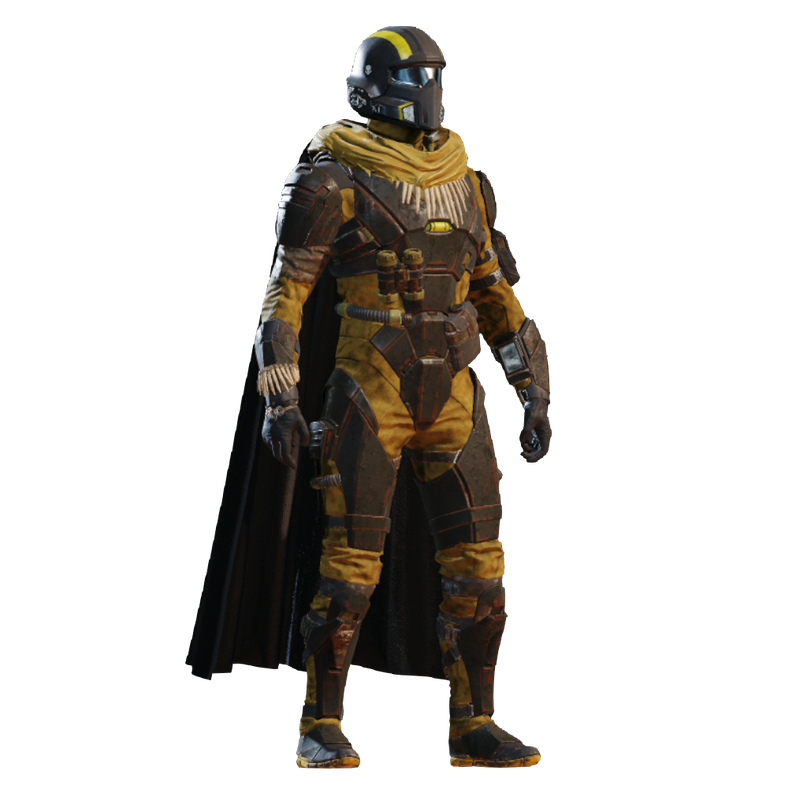
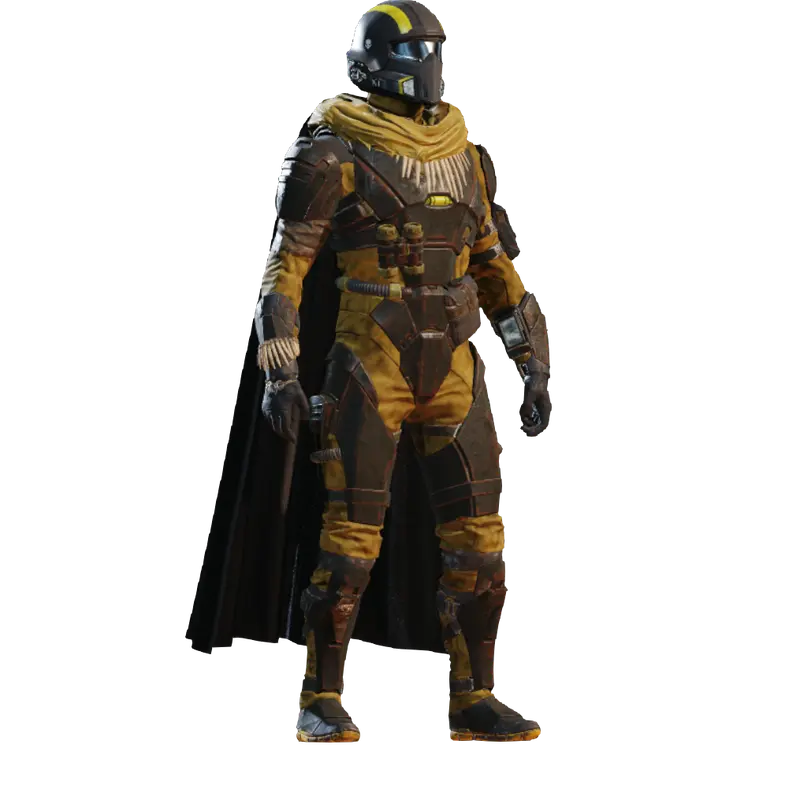
figured out why some of the new armors dont look right

Changed region(s): [[0.2188, 0.0, 0.6875, 0.9688]]

diff --git a/js/armorlab/main.js b/js/armorlab/main.js
@@ -251,12 +251,6 @@ const applySpecialRules = () => {
     armorImg.style.objectPosition = 'center -25px';
   }
 
-  // these armors are short for some reason
-  const shortSets = ['ds191scorpion', 'ds10biggamehunter', 'ds42federationsblade'];
-  if (shortSets.includes(currentArmor)) {
-    helmetContainer.style.top = '21.5px';
-  }
-
   // these capes are too skinny
   const skinnyCapes = ['pillaroftheabyss', 'triangulationveil'];
   if (skinnyCapes.includes(currentCape)) {
